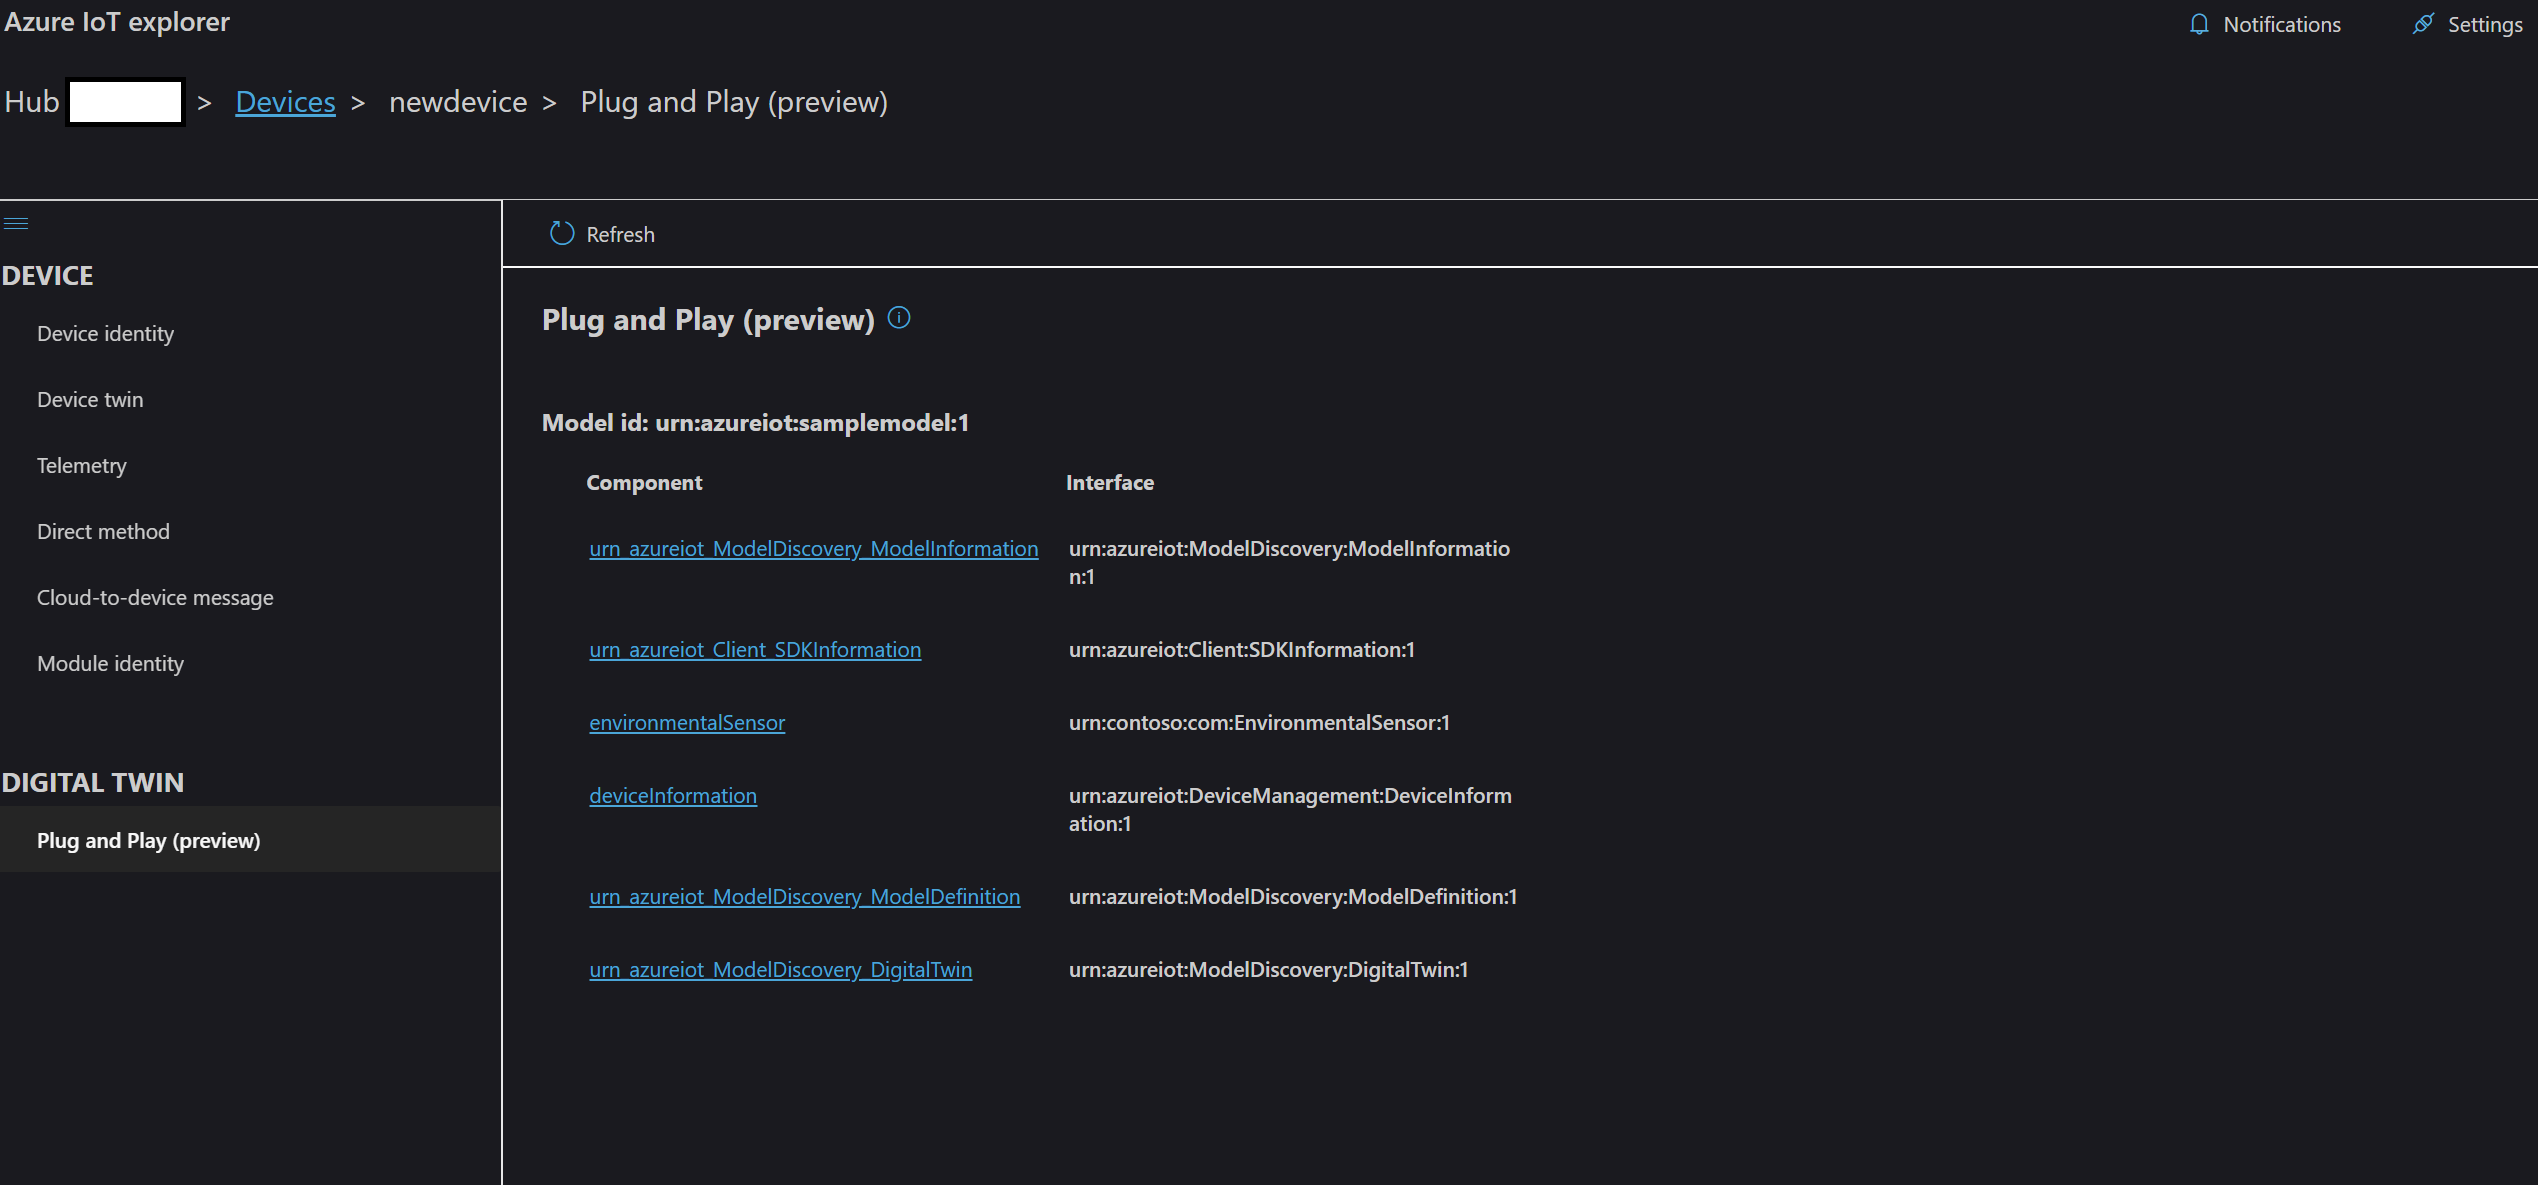
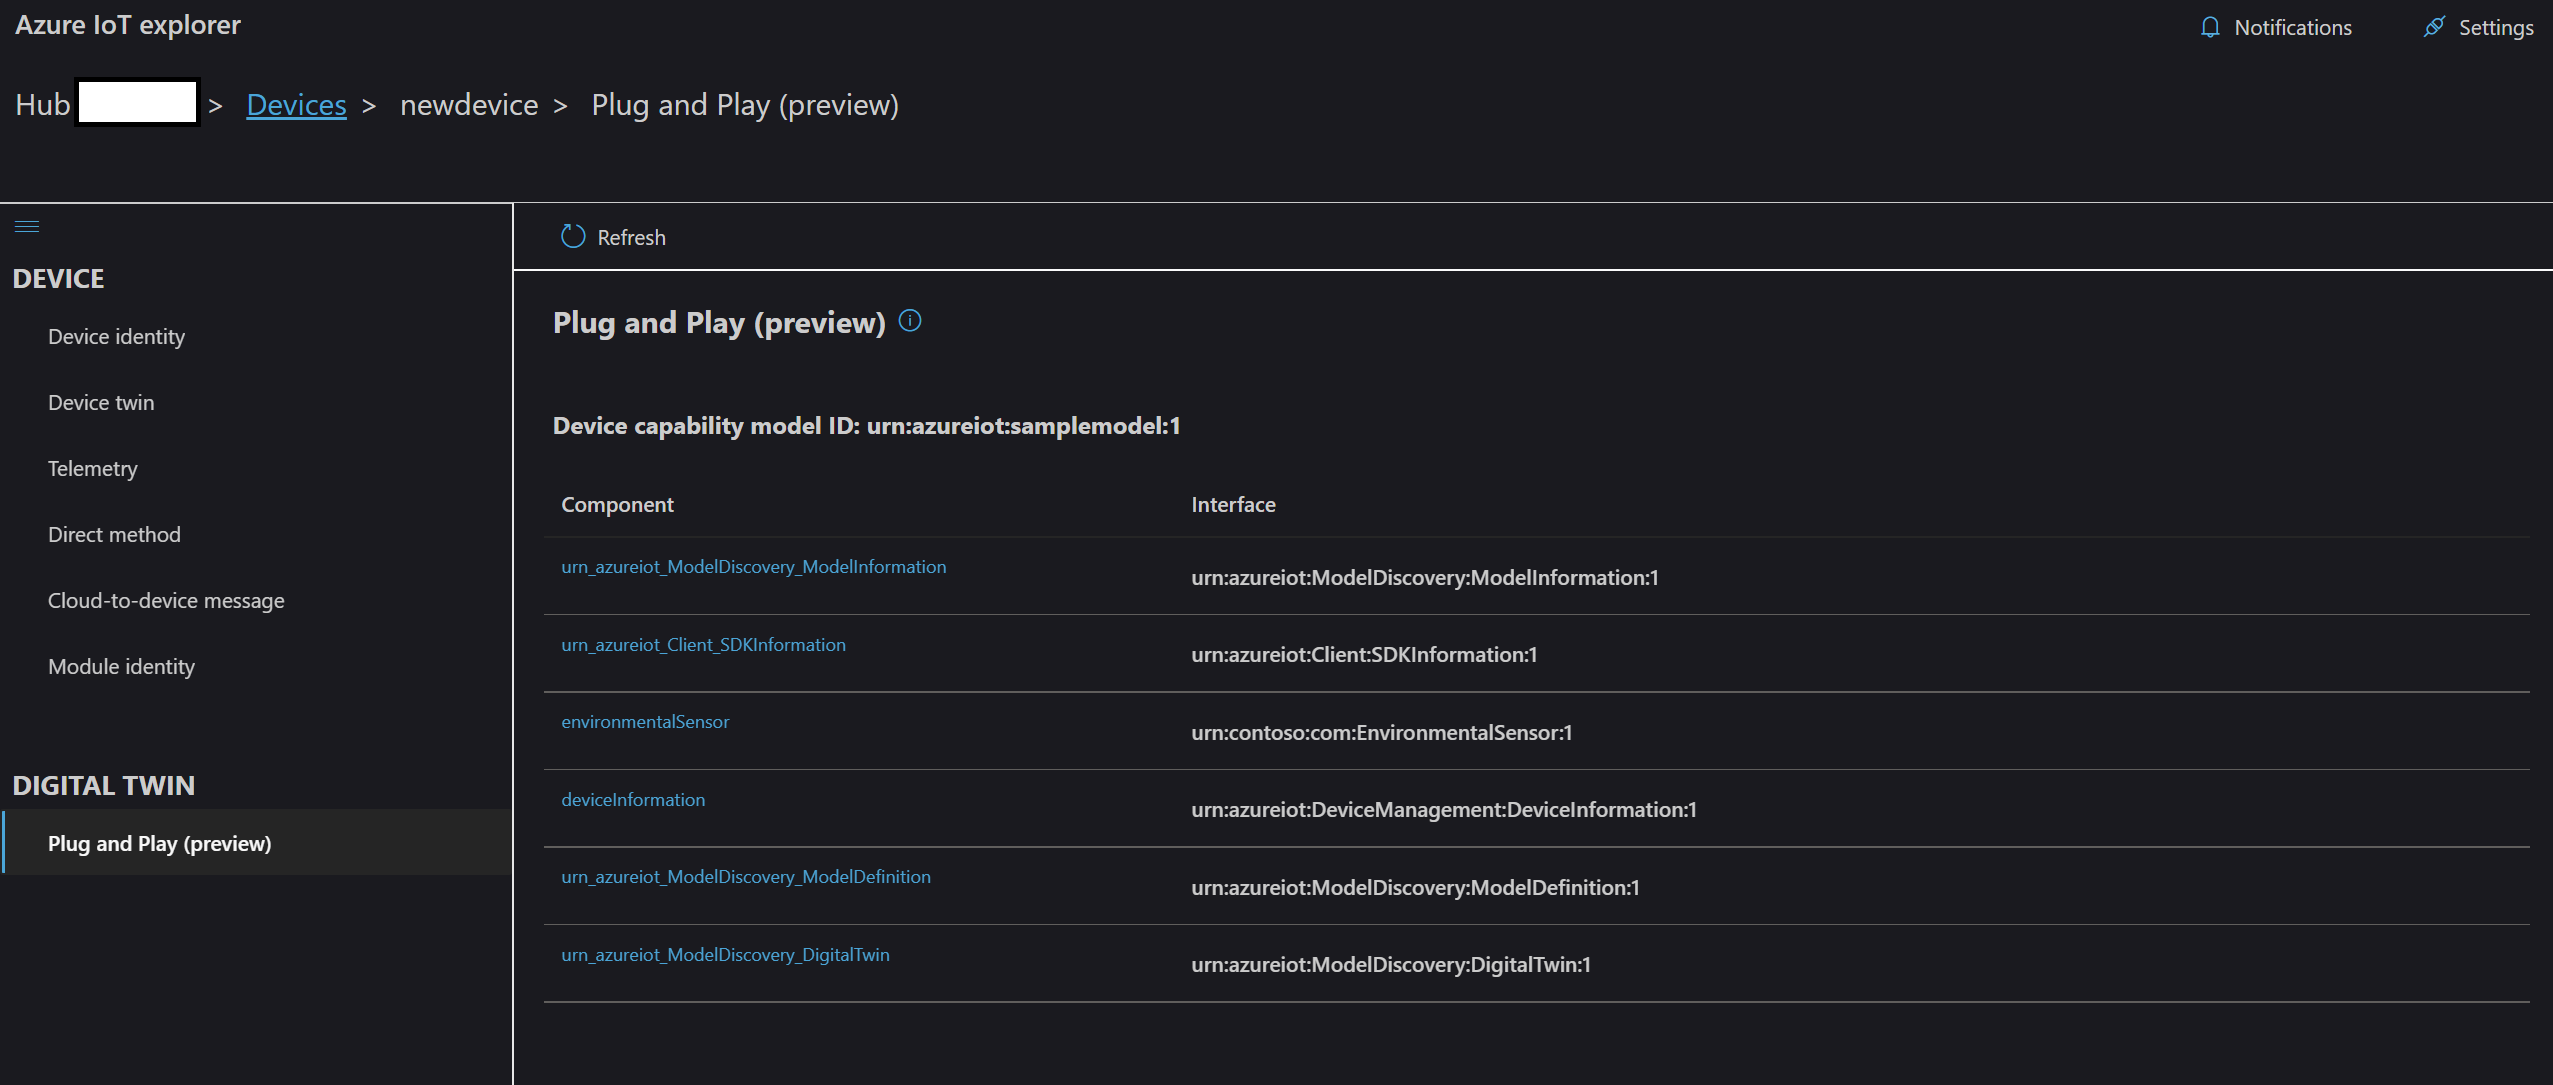
address comments, add tests and make interface ids into a table

diff --git a/src/app/devices/deviceContent/components/digitalTwin/digitalTwinInterfaces.tsx b/src/app/devices/deviceContent/components/digitalTwin/digitalTwinInterfaces.tsx
@@ -6,8 +6,9 @@ import * as React from 'react';
 import { useSelector, useDispatch } from 'react-redux';
 import { Label } from 'office-ui-fabric-react/lib/Label';
 import { CommandBar, ICommandBarItemProps } from 'office-ui-fabric-react/lib/CommandBar';
+import { DetailsList, IColumn, SelectionMode } from 'office-ui-fabric-react/lib/DetailsList';
 import { RouteComponentProps, NavLink } from 'react-router-dom';
-import { getDigitalTwincomponentNameAndIdsSelector, getDigitalTwinDcmNameSelector, getDigitalTwinInterfacePropertiesWrapperSelector } from '../../selectors';
+import { getDigitalTwinComponentNameAndIdsSelector, getDigitalTwinDcmNameSelector, getDigitalTwinInterfacePropertiesWrapperSelector } from '../../selectors';
 import { ROUTE_PARTS, ROUTE_PARAMS } from '../../../../constants/routes';
 import { getDeviceIdFromQueryString } from '../../../../shared/utils/queryStringHelper';
 import { useLocalizationContext } from '../../../../shared/contexts/localizationContext';
@@ -17,6 +18,7 @@ import { getDigitalTwinInterfacePropertiesAction } from '../../actions';
 import { HeaderView } from '../../../../shared/components/headerView';
 import MultiLineShimmer from '../../../../shared/components/multiLineShimmer';
 import { REFRESH } from '../../../../constants/iconNames';
+import { LARGE_COLUMN_WIDTH } from '../../../../constants/columnWidth';
 import '../../../../css/_digitalTwinNav.scss';
 import '../../../../css/_devicePnPDetailList.scss';
 
@@ -25,6 +27,12 @@ export interface DigitalTwinInterfacesProps extends RouteComponentProps{
     nameToIds: object;
     dcm: string;
     refresh: (deviceId: string) => void;
+}
+
+interface ModelContent {
+    link: string;
+    componentName: string;
+    interfaceId: string;
 }
 
 export const DigitalTwinInterfaces: React.FC<DigitalTwinInterfacesProps> = props => {
@@ -36,23 +44,16 @@ export const DigitalTwinInterfaces: React.FC<DigitalTwinInterfacesProps> = props
     const deviceId = getDeviceIdFromQueryString(props);
     const { t } = useLocalizationContext();
 
-    let navLinks: JSX.Element[] = [];
+    let modelContents: ModelContent[] = [];
     if (props.nameToIds) {
-        navLinks = Object.keys(props.nameToIds).map(componentName => {
+        modelContents = Object.keys(props.nameToIds).map(componentName => {
             const interfaceId = (props.nameToIds as any)[componentName]; // tslint:disable-line:no-any
             const link = `${url}${ROUTE_PARTS.DIGITAL_TWINS_DETAIL}/${ROUTE_PARTS.INTERFACES}/` +
                             `?${ROUTE_PARAMS.DEVICE_ID}=${encodeURIComponent(deviceId)}` +
                             `&${ROUTE_PARAMS.COMPONENT_NAME}=${componentName}` +
                             `&${ROUTE_PARAMS.INTERFACE_ID}=${interfaceId}`;
 
-            return (
-                <div className="interface-item ms-Grid-row" key={componentName}>
-                    <NavLink className="ms-Grid-col ms-sm3 ms-md3 ms-lg3" key={componentName} to={link}>
-                        {componentName}
-                    </NavLink>
-                    <Label className="ms-Grid-col ms-sm3 ms-md3 ms-lg3 interface-info" >{interfaceId}</Label>
-                </div>
-            );
+            return { componentName, interfaceId, link };
         });
     }
 
@@ -69,6 +70,36 @@ export const DigitalTwinInterfaces: React.FC<DigitalTwinInterfacesProps> = props
         ];
     };
 
+    const getColumns = (): IColumn[] => {
+        return [
+            { fieldName: 'name', isMultiline: true, isResizable: true, key: 'name',
+                maxWidth: LARGE_COLUMN_WIDTH, minWidth: 100, name: t(ResourceKeys.digitalTwin.componentName) },
+            { fieldName: 'id', isResizable: true, key: 'id',
+                maxWidth: LARGE_COLUMN_WIDTH, minWidth: 100, name: t(ResourceKeys.digitalTwin.interfaceId)}
+        ];
+    };
+
+    const renderItemColumn = () => (item: ModelContent, index: number, column: IColumn) => {
+        switch (column.key) {
+            case 'name':
+                return (
+                    <NavLink key={column.key} to={item.link}>
+                        {item.componentName}
+                    </NavLink>
+                );
+            case 'id':
+                return (
+                    <Label
+                        key={column.key}
+                    >
+                        {item.interfaceId}
+                    </Label>
+                );
+            default:
+                return;
+        }
+    };
+
     return (
         <>
             <CommandBar
@@ -83,16 +114,17 @@ export const DigitalTwinInterfaces: React.FC<DigitalTwinInterfacesProps> = props
 
             <section className="device-detail pnp-detail-list scrollable-lg">
                 {props.dcm && <Label className="dcm-info">{t(ResourceKeys.digitalTwin.dcm, {modelId: props.dcm })}</Label>}
-
-                <div className="ms-Grid">
-                    <div className="interface-item ms-Grid-row">
-                        <Label className="ms-Grid-col ms-sm3 ms-md3 ms-lg3 grid-header" >{t(ResourceKeys.digitalTwin.componentName)}</Label>
-                        <Label className="ms-Grid-col ms-sm3 ms-md3 ms-lg3 grid-header" >{t(ResourceKeys.digitalTwin.interfaceId)}</Label>
+                {modelContents.length !== 0 &&
+                    <div className="list-detail">
+                        <DetailsList
+                            onRenderItemColumn={renderItemColumn()}
+                            items={modelContents}
+                            columns={getColumns()}
+                            selectionMode={SelectionMode.none}
+                        />
                     </div>
-                    {navLinks}
-                </div>
+                }
             </section>
-
         </>
     );
 };
@@ -105,8 +137,8 @@ export const DigitalTwinInterfacesContainer: React.FC<DigitalTwinInterfacesConta
     const viewProps = {
         dcm: useSelector(getDigitalTwinDcmNameSelector),
         isLoading: digitalTwinInterfacesWrapper &&
-            digitalTwinInterfacesWrapper.synchronizationStatus === SynchronizationStatus.working,
-        nameToIds: useSelector(getDigitalTwincomponentNameAndIdsSelector),
+        digitalTwinInterfacesWrapper.synchronizationStatus === SynchronizationStatus.working,
+        nameToIds: useSelector(getDigitalTwinComponentNameAndIdsSelector),
         refresh: (deviceId: string) => dispatch(getDigitalTwinInterfacePropertiesAction.started(deviceId)),
         ...props
     };

diff --git a/src/app/devices/deviceContent/components/digitalTwin/digitalTwinInterfaces.spec.tsx b/src/app/devices/deviceContent/components/digitalTwin/digitalTwinInterfaces.spec.tsx
@@ -1,0 +1,55 @@
+/***********************************************************
+ * Copyright (c) Microsoft Corporation. All rights reserved.
+ * Licensed under the MIT License
+ **********************************************************/
+import 'jest';
+import * as React from 'react';
+import { Label } from 'office-ui-fabric-react/lib/Label';
+import { mountWithLocalization } from '../../../../shared/utils/testHelpers';
+import { DigitalTwinInterfaces } from './digitalTwinInterfaces';
+import { ResourceKeys } from '../../../../../localization/resourceKeys';
+
+describe('login/components/connectivityPane', () => {
+    const routerProps: any = { // tslint:disable-line:no-any
+        history: {
+            location,
+            push: jest.fn()
+        },
+        location,
+        match: {
+            url: 'resources/TestHub.azure-devices.net/devices/deviceDetail/digitalTwins/'
+        }
+    };
+
+    const digitalTwinInterfacesDataProps =
+    {
+        dcm: 'dcmId',
+        isLoading: false,
+        nameToIds: {
+            environmentSensor: 'urn:contoso:com:EnvironmentalSensor:1',
+            urn_azureiot_ModelDiscovery_DigitalTwin: 'urn:azureiot:ModelDiscovery:DigitalTwin:1'
+        },
+        refresh: jest.fn()
+    };
+
+    const getComponent = (overrides = {}) => {
+        const props = {
+            ...digitalTwinInterfacesDataProps,
+            ...routerProps,
+            ...overrides
+        };
+
+        return (
+            <DigitalTwinInterfaces {...props} />
+        );
+    };
+
+    it('shows dcm and interfaces', () => {
+        const labels = mountWithLocalization(getComponent(), false, true).find(DigitalTwinInterfaces).find(Label);
+
+        expect(labels).toHaveLength(3); // tslint:disable-line:no-magic-numbers
+        expect(labels.first().props().children).toEqual(ResourceKeys.digitalTwin.dcm);
+        expect(labels.at(1).props().children).toEqual('urn:contoso:com:EnvironmentalSensor:1');
+        expect(labels.at(2).props().children).toEqual('urn:azureiot:ModelDiscovery:DigitalTwin:1'); // tslint:disable-line:no-magic-numbers
+    });
+});

diff --git a/src/app/devices/deviceContent/selectors.ts b/src/app/devices/deviceContent/selectors.ts
@@ -58,7 +58,7 @@ export const getDigitalTwinInterfacePropertiesSelector = (state: StateInterface)
         state.deviceContentState.digitalTwinInterfaceProperties.payload;
 };
 
-export const getDigitalTwincomponentNameAndIdsSelector = createSelector(
+export const getDigitalTwinComponentNameAndIdsSelector = createSelector(
     getDigitalTwinInterfacePropertiesSelector,
     properties => {
         return getReportedInterfacesFromDigitalTwin(properties);
@@ -95,7 +95,7 @@ export const getDigitalTwinDcmNameSelector = createSelector(
 );
 
 export const getDigitalTwinInterfaceIdsSelector = createSelector(
-    getDigitalTwincomponentNameAndIdsSelector,
+    getDigitalTwinComponentNameAndIdsSelector,
     nameAndIds => {
         if (nameAndIds) {
             const interfaceIds = Object.keys(nameAndIds).map(
@@ -107,5 +107,5 @@ export const getDigitalTwinInterfaceIdsSelector = createSelector(
 );
 
 export const getIsDevicePnpSelector = createSelector(
-    getDigitalTwincomponentNameAndIdsSelector,
+    getDigitalTwinComponentNameAndIdsSelector,
     names => names && Object.keys(names).length > 0);

diff --git a/src/app/css/_digitalTwinNav.scss b/src/app/css/_digitalTwinNav.scss
@@ -4,31 +4,6 @@
  **********************************************************/
  @import 'themes';
 
-.interface-item {
-    margin:10px;
-    padding-left: 10px;
-    word-wrap: break-word;
-    a {
-        @include themify($themes) {
-            color: themed('linkColor');
-        }
-        padding: 10px;
-    }
-    a:hover {
-        cursor: pointer;
-        @include themify($themes) {
-            background-color: themed('pivotOnHoverBackground');
-        }
-    }
-    .grid-header {
-        font-weight: bold;
-    }
-
-    .interface-info {
-        padding: 10px;
-    }
-}
-
 .dcm-info {
     font-size: 16px;
     font-weight: bold;

diff --git a/src/app/devices/deviceContent/components/deviceProperties/devicePropertiesPerInterface.tsx b/src/app/devices/deviceContent/components/deviceProperties/devicePropertiesPerInterface.tsx
@@ -49,7 +49,7 @@ export default class DevicePropertiesPerInterface
             <LocalizationContextConsumer>
                 {(context: LocalizationContextInterface) => (
                     <div className="pnp-detail-list scrollable-lg ms-Grid">
-                        <div className="non-writable-properties">
+                        <div className="list-detail non-writable-properties">
                             <DetailsList
                                 checkboxVisibility={CheckboxVisibility.hidden}
                                 onRenderItemColumn={this.renderItemColumn(context)}

diff --git a/README.md b/README.md
@@ -56,7 +56,7 @@ If you'd like to package the app yourself, please refer to the [FAQ](https://git
 <img src="doc/screenshots/settings.PNG" alt="settings" width="400"/>
 
 - Go to the device details page by clicking the name of a PnP device.
-- Click Plug and Play from the navigation, the DCM along with its interfaces the device implements as components would be listed on the page.
+- Click Plug and Play from the navigation. If the device is a Plug and Play device, the Device capability model ID would be shown. A table would show the list of components implemented by the device and the corresponding interfaces the components conform to.
 
 <img src="doc/screenshots/pnp_interfaces.PNG" alt="settings" width="800"/>
 
